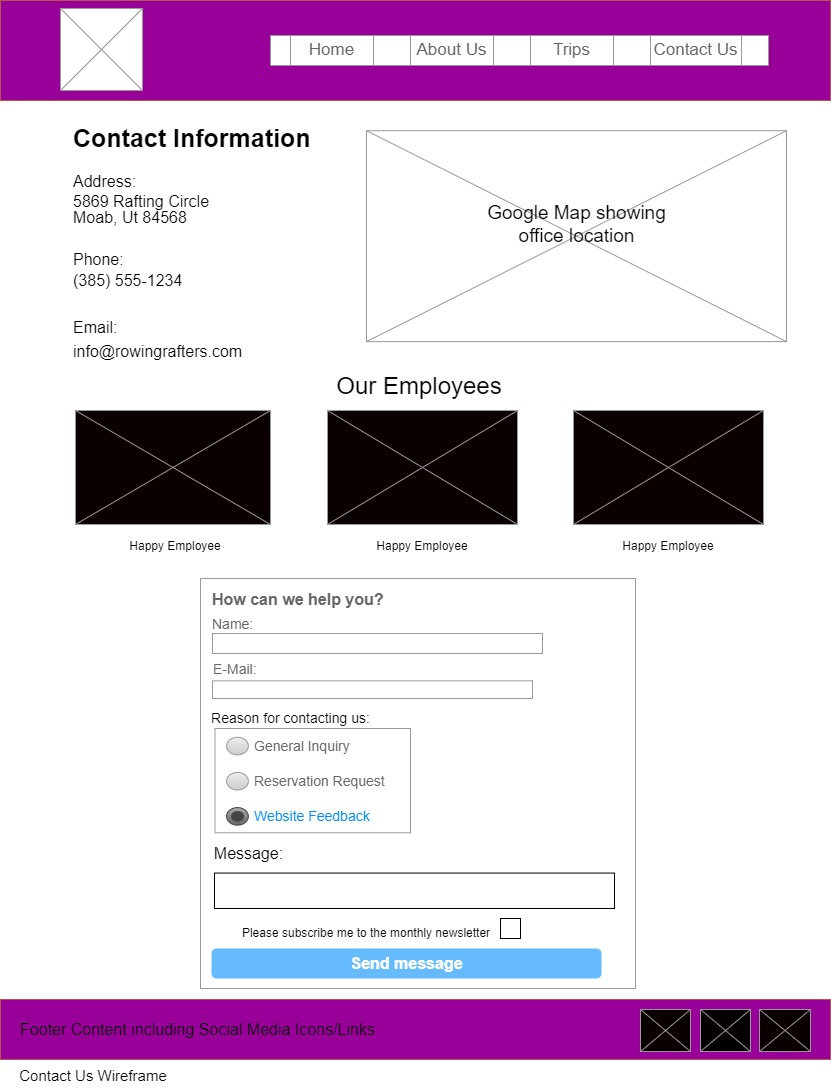
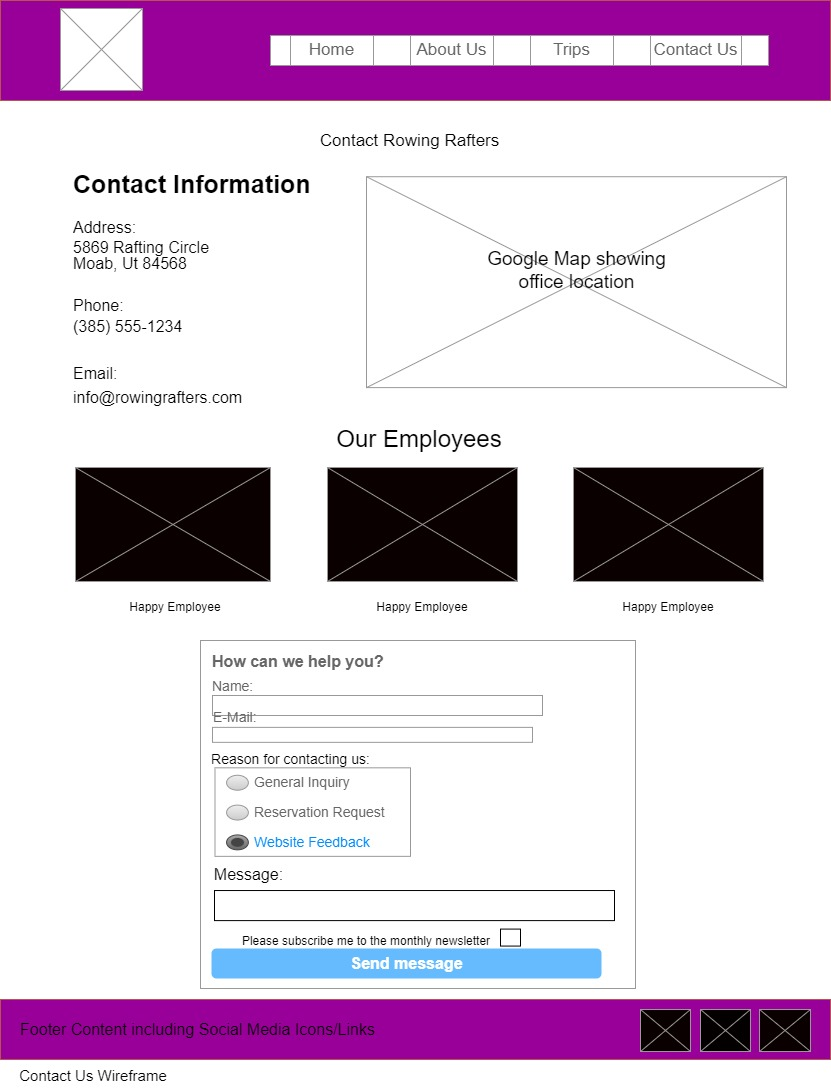
update1 contact.html

diff --git a/wwr/contact.html b/wwr/contact.html
@@ -22,6 +22,7 @@
     </header>
 
     <main>
+        <h1 class="h1">Contact Rowing Rafters</h1>
         <figure class="contact-container">
             <section class="company-info">
                 <h2>Contact Information</h2>
@@ -83,7 +84,7 @@
                     <input type="checkbox" id="subscribe" name="subscribe">
                 </section>
              </fieldset>
-             <button type="send">Send Message</button>
+             <button type="send-message">Send Message</button>
         </form>
     
     <footer>

diff --git a/wwr/styles/rafting.css b/wwr/styles/rafting.css
@@ -201,6 +201,9 @@ footer p {
 }
 
 /* Contact Page */
+.h1 {
+    color: var(--accent4-color);
+}
 
 .contact-container {
     display: flex;
